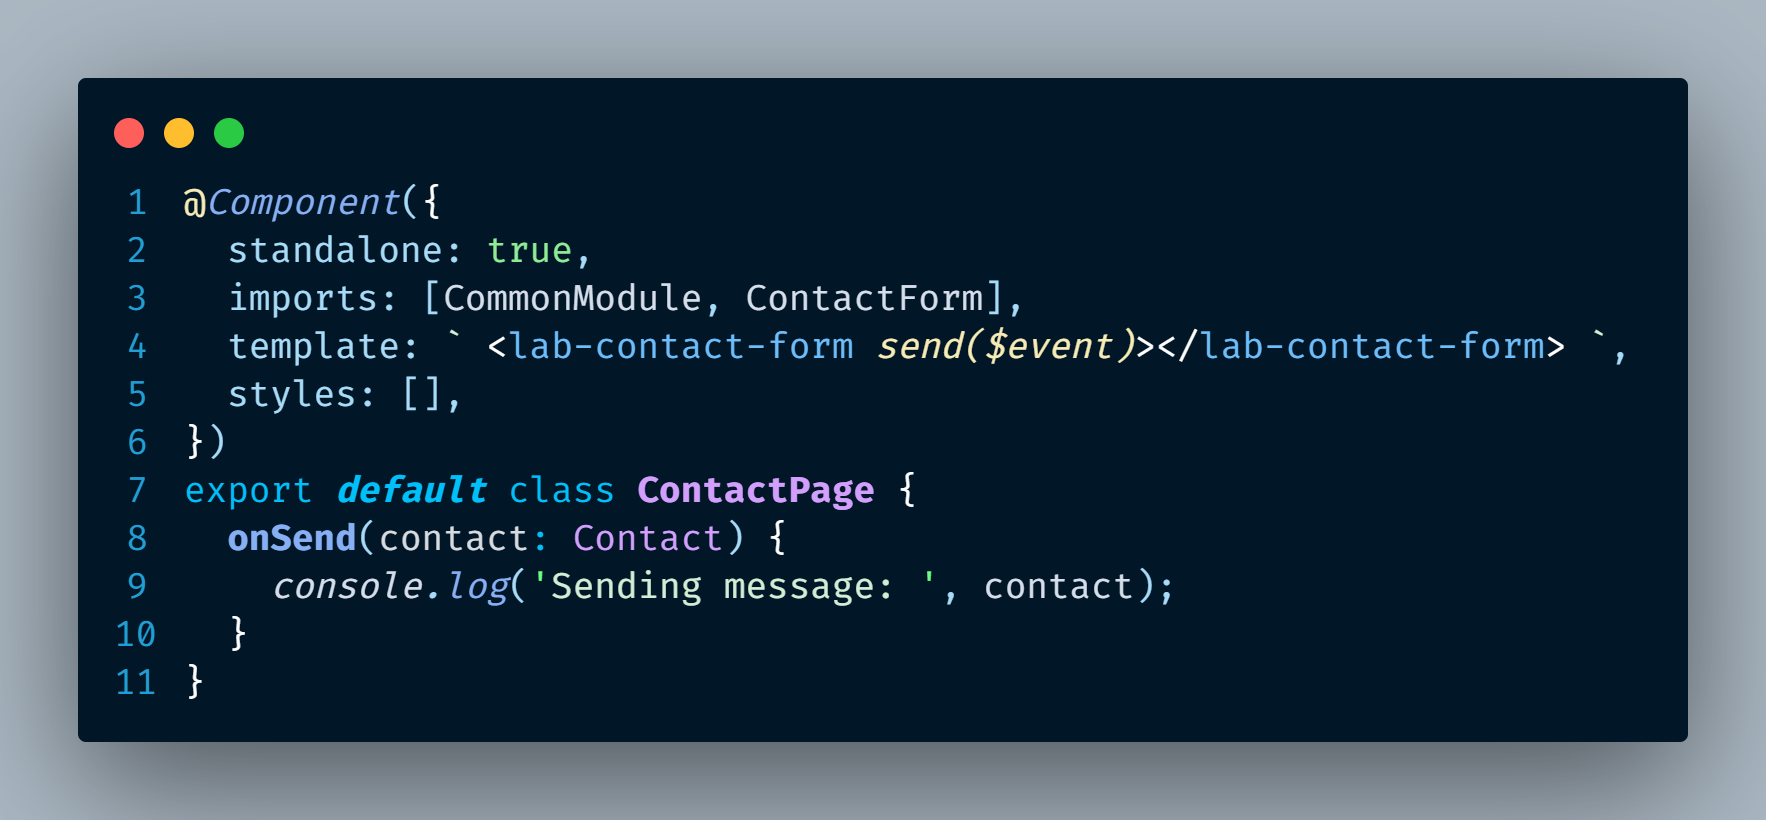
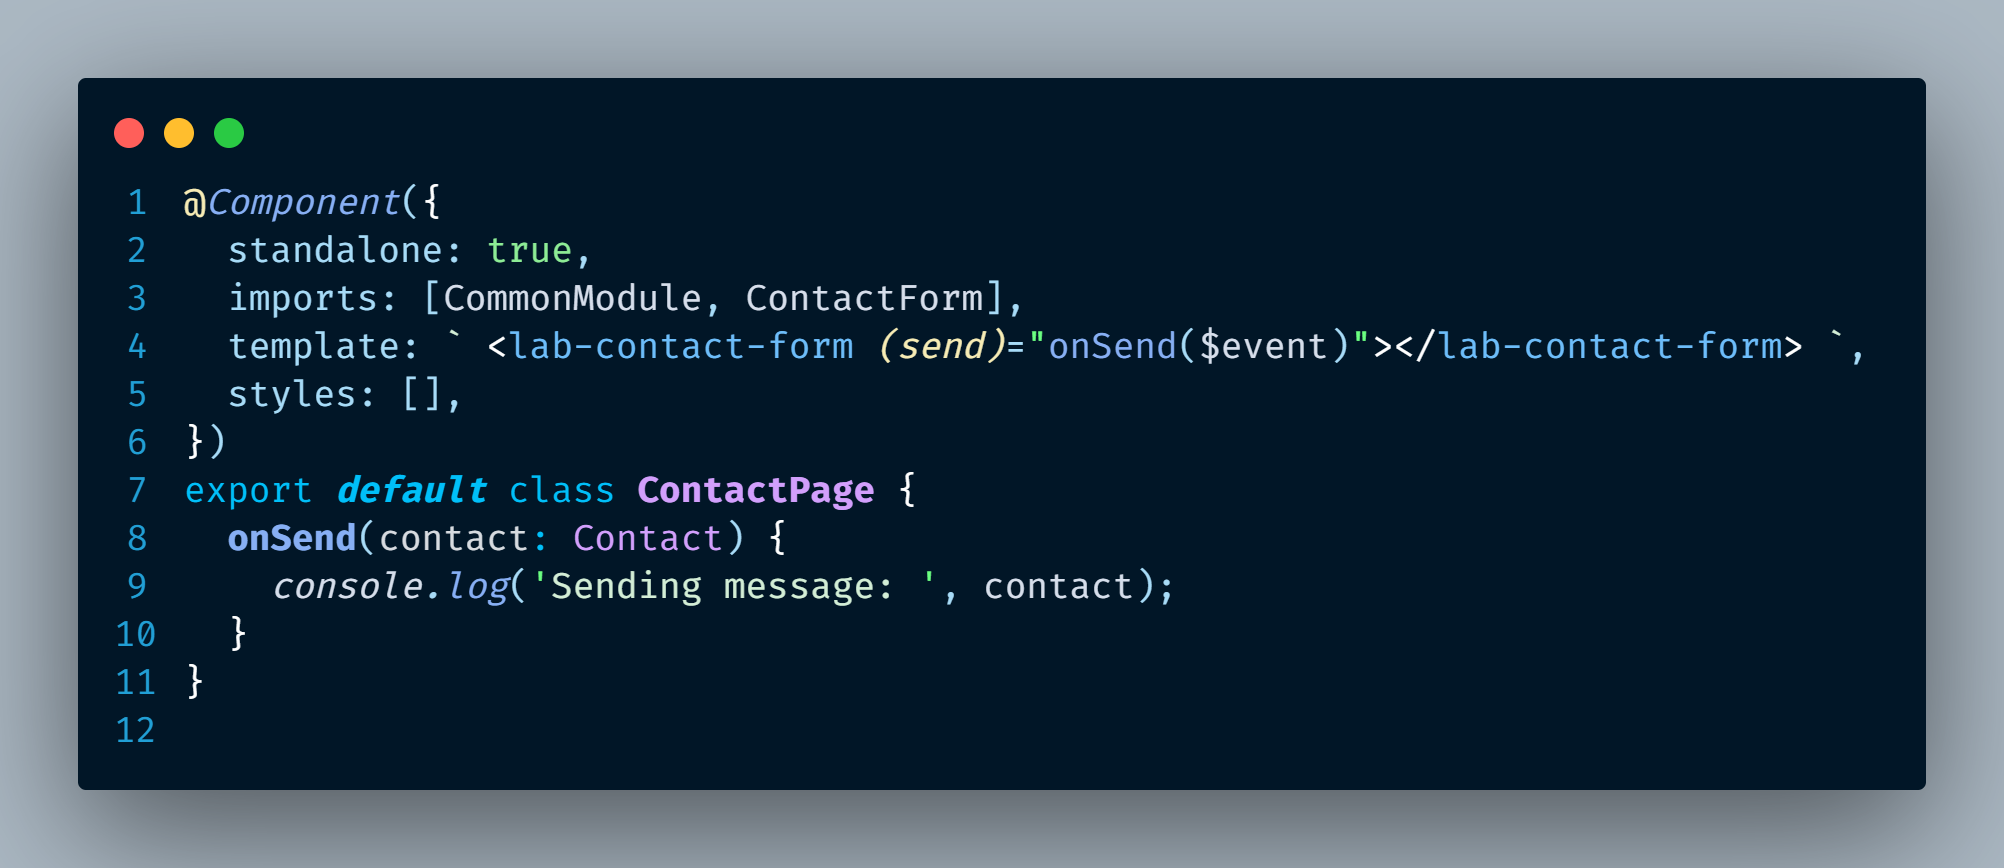
feat: Reactive forms

Changed region(s): [[0.0311, 0.0915, 0.9655, 0.9146]]

diff --git a/src/app/routes/contact/contact.form.ts b/src/app/routes/contact/contact.form.ts
@@ -1,26 +1,31 @@
 import { CommonModule } from '@angular/common';
-import { Component, EventEmitter, Output } from '@angular/core';
+import { Component, EventEmitter, inject, Output } from '@angular/core';
+import { FormBuilder, FormGroup, ReactiveFormsModule } from '@angular/forms';
 import { Contact } from './contact.interface';
 
 @Component({
   selector: 'lab-contact-form',
   standalone: true,
-  imports: [CommonModule],
+  imports: [CommonModule, ReactiveFormsModule],
   template: `
-    <form>
+    <form [formGroup]="form">
       <fieldset>
         <legend>Contact us</legend>
         <div>
           <label for="name">Name</label>
-          <input type="text" id="name" name="name" />
+          <input type="text" id="name" name="name" formControlName="name" />
         </div>
         <div>
           <label for="email">Email</label>
-          <input type="email" id="email" name="email" />
+          <input type="email" id="email" name="email" formControlName="email" />
         </div>
         <div>
           <label for="message">Message</label>
-          <textarea id="message" name="message"></textarea>
+          <textarea
+            id="message"
+            name="message"
+            formControlName="message"
+          ></textarea>
         </div>
       </fieldset>
       <div>
@@ -32,12 +37,14 @@ import { Contact } from './contact.interface';
 })
 export class ContactForm {
   @Output() send = new EventEmitter<Contact>();
+
+  form: FormGroup = inject(FormBuilder).group({
+    name: 'Alberto Basalo',
+    email: 'alberto@fake.mail',
+    message: 'I want to use Angular standalone APIs on 2023!',
+  });
+
   onSubmit() {
-    const fakeContact: Contact = {
-      name: 'Alberto Basalo',
-      email: 'alberto@fake.mail',
-      message: 'Hello world!',
-    };
-    this.send.emit(fakeContact);
+    this.send.emit(this.form.value);
   }
 }

diff --git a/src/app/routes/contact/contact.page.ts b/src/app/routes/contact/contact.page.ts
@@ -6,7 +6,7 @@ import { Contact } from './contact.interface';
 @Component({
   standalone: true,
   imports: [CommonModule, ContactForm],
-  template: ` <lab-contact-form send($event)></lab-contact-form> `,
+  template: ` <lab-contact-form (send)="onSend($event)"></lab-contact-form> `,
   styles: [],
 })
 export default class ContactPage {

diff --git a/docs/CLI.md b/docs/CLI.md
@@ -61,3 +61,11 @@ ng g c routes/contact --type=form --selector=lab-contact-form
 ng g i routes/contact/contact --type=interface
 ng g s routes/contact/contact
 ```
+
+````
+
+## 8⃣ Reactive forms
+
+```bash
+# import ReactiveFormsModule at ContactForm
+````
